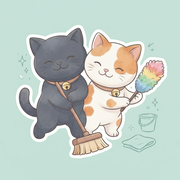
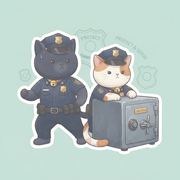
Icona definitiva e script di generazione
Claude-Session: https://claude.ai/code/session_01VsjeCydR4ZTVZBS21RmUg7

diff --git a/scripts/generate_icons.py b/scripts/generate_icons.py
@@ -1,0 +1,35 @@
+"""Genera le icone della PWA da assets/icon-source.jpg (1024x1024, angoli bianchi fuori dal riquadro arrotondato).
+Uso: python3 scripts/generate_icons.py   (richiede Pillow)"""
+from PIL import Image, ImageDraw
+
+SRC = 'assets/icon-source.jpg'
+MINT = (198, 225, 216)   # colore di sfondo dell'icona
+RADIUS, INSET = 224, 4   # raggio degli angoli dell'icona e margine per eliminare l'alone bianco
+
+src = Image.open(SRC).convert('RGB')
+W = src.width
+S = 4  # supersampling per una maschera pulita
+
+mask = Image.new('L', (W * S, W * S), 0)
+ImageDraw.Draw(mask).rounded_rectangle((INSET * S, INSET * S, (W - INSET) * S - 1, (W - INSET) * S - 1), RADIUS * S, fill=255)
+mask = mask.resize((W, W), Image.LANCZOS)
+
+# 1) con angoli trasparenti (icone "any", favicon)
+rounded = src.copy(); rounded.putalpha(mask)
+# 2) a pieno riquadro: gli angoli bianchi diventano del colore dello sfondo (iOS arrotonda da sé; base per le maschere Android)
+full = Image.composite(src, Image.new('RGB', src.size, MINT), mask)
+
+def save(img, size, path):
+    img.resize((size, size), Image.LANCZOS).save(path, optimize=True); print('ok', path)
+
+save(rounded, 192, 'public/pwa-192.png')
+save(rounded, 512, 'public/pwa-512.png')
+save(rounded, 64, 'public/favicon.png')
+save(full, 180, 'public/apple-touch-icon.png')
+
+# maskable: l'illustrazione resta nella zona sicura (80%) su fondo pieno
+canvas = Image.new('RGB', (512, 512), MINT)
+inner = full.resize((410, 410), Image.LANCZOS)
+canvas.paste(inner, (51, 51)); canvas.save('public/pwa-maskable-512.png', optimize=True); print('ok public/pwa-maskable-512.png')
+# icona nella pagina iniziale
+save(rounded, 256, 'public/app-icon.png')

diff --git a/README.md b/README.md
@@ -6,8 +6,8 @@ condiviso con i familiari. Progressive Web App mobile-first (React + Vite + Type
 Stile grafico, autenticazione Google e regole di invito derivano da [Clean Duo](https://github.com/emilioamici/clean-duo) e
 [MoneyDuo](https://github.com/emilioamici/money-duo): tema Mochi (chiaro) / Zenitsu (scuro), Liquid Glass solo su navigazione e fogli, i due gattini.
 
-> **Stato dell'icona e delle mascotte:** sono quelle provvisorie di Clean Duo (`public/app-icon.png`, `public/cats/*`). Quando arriva l'icona
-> definitiva si sostituiscono i file e si rigenerano `pwa-*.png`, `apple-touch-icon.png` e `favicon.png`.
+> **Icona e mascotte:** l'icona definitiva (i due gatti poliziotti con la cassaforte) è in `assets/icon-source.jpg`; `npm run icons` rigenera `pwa-*.png`, `apple-touch-icon.png`, `favicon.png` e `app-icon.png` (serve Pillow).
+> Le mascotte che fanno capolino (`public/cats/*`) sono ancora quelle provvisorie di Clean Duo.
 
 ## Funzioni
 
@@ -185,7 +185,7 @@ worker/                            Cloudflare Worker (solo accesso persistente)
 - **Tombstone senza scadenza:** le cancellazioni restano nel file (svuotate di ogni contenuto: nessun segreto), per evitare che una voce risorga da un dispositivo rimasto indietro.
 - **Solo italiano**, niente catalogo di traduzioni (Clean Duo ne ha uno it/en).
 - **Worker ridotto** all'accesso persistente: niente notifiche, ponte, Tuya. Senza il ponte, chi entra in famiglia deve passare dal Picker (un tocco, una volta sola).
-- **Mascotte e icona provvisorie** (quelle di Clean Duo, con scopa e piumino), in attesa dell'icona definitiva.
+- **Mascotte provvisorie** (quelle di Clean Duo) in attesa di versioni a tema sicurezza; l'icona è quella definitiva.
 
 ## Prove nel browser (Playwright)
 
